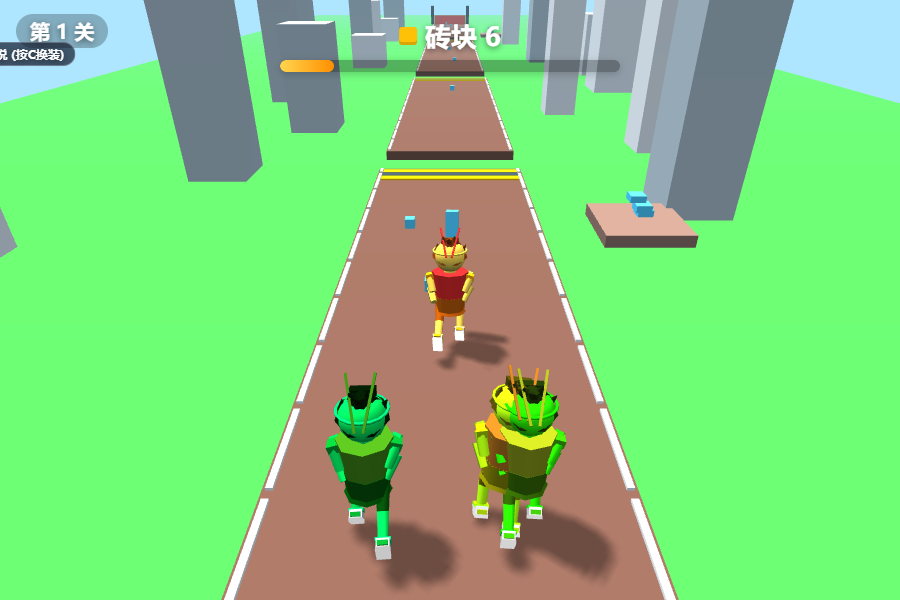
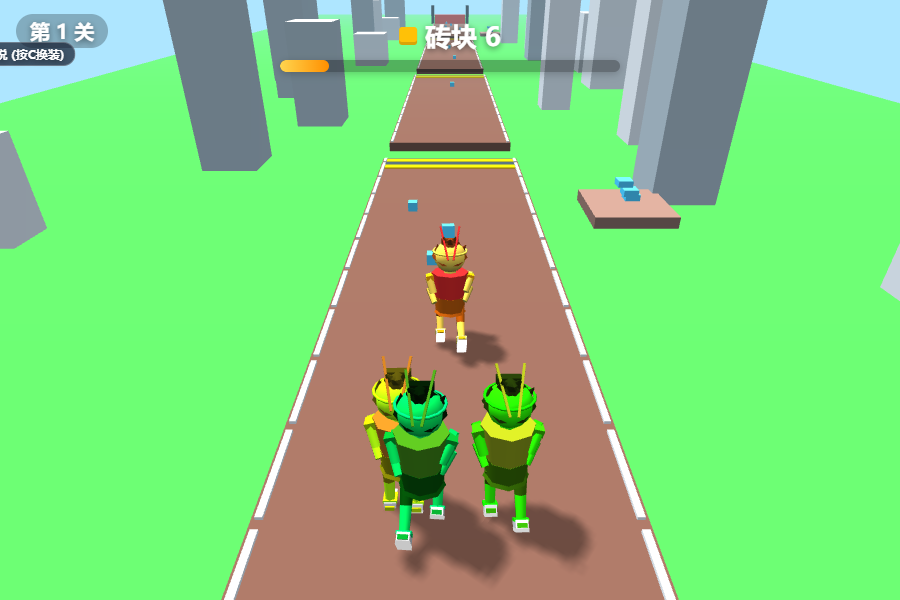
P1机制批(双端): M6板子几秒后原地刷新(5s复活,鞋一次性,takePickup改隐藏不销毁) + M8板尽差一步扒住断崖边缘爬上去(0.55s攀爬态+双臂上伸姿势,替代直接坠落) + M13板堆视觉堆到天高(12→18层距收紧); 修潜在bug: M7孤岛拾取后节点幸存逻辑统一; verify-web扩到20/20(新增pickup-respawn/edge-grab断言); tsc0/smoke/sim38全绿

diff --git a/web-preview/index.html b/web-preview/index.html
@@ -907,6 +907,23 @@ function animateChar(char, runCycle, steerVelocity, carriedPlanks, state, delta,
     char.leftLeg.knee.rotation.x = 0.1; char.rightLeg.knee.rotation.x = 0.1;
     return;
   }
+  if (state === 'climb') {
+    // M8 挂边攀爬：双臂上伸扒住边缘，双腿屈膝蹬踏，躯干随攀爬频率起伏
+    char.torso.rotation.x = lerp(char.torso.rotation.x, -0.32, delta * 8);
+    char.torso.rotation.z = lerp(char.torso.rotation.z, 0, delta * 8);
+    char.torso.position.y = lerp(char.torso.position.y, 0.72 + Math.sin(runCycle * 6) * 0.08, delta * 10);
+    char.leftArm.shoulder.rotation.x = lerp(char.leftArm.shoulder.rotation.x, -2.9, delta * 9);
+    char.leftArm.shoulder.rotation.z = lerp(char.leftArm.shoulder.rotation.z, -0.5, delta * 9);
+    char.leftArm.elbow.rotation.x = lerp(char.leftArm.elbow.rotation.x, -0.25, delta * 9);
+    char.rightArm.shoulder.rotation.x = lerp(char.rightArm.shoulder.rotation.x, -2.9, delta * 9);
+    char.rightArm.shoulder.rotation.z = lerp(char.rightArm.shoulder.rotation.z, 0.5, delta * 9);
+    char.rightArm.elbow.rotation.x = lerp(char.rightArm.elbow.rotation.x, -0.25, delta * 9);
+    char.leftLeg.hip.rotation.x = lerp(char.leftLeg.hip.rotation.x, -0.9, delta * 8);
+    char.leftLeg.knee.rotation.x = lerp(char.leftLeg.knee.rotation.x, 1.2, delta * 8);
+    char.rightLeg.hip.rotation.x = lerp(char.rightLeg.hip.rotation.x, 0.7, delta * 8);
+    char.rightLeg.knee.rotation.x = lerp(char.rightLeg.knee.rotation.x, 0.9, delta * 8);
+    return;
+  }
   const stride = Math.sin(runCycle);
   // 负重反作用平衡（v2 增强）：搬得越多躯干抗压后仰、手臂内收、砖垛甩尾更重
   const loadFactor = Math.min(carriedPlanks / 25, 1.0);
@@ -998,9 +1015,10 @@ let playerX = 0, targetX = 0, playerY = 0, fallVel = 0;
 let pickups = [], gateWalls = [], stackMeshes = [], anims = [];
 let curSeed = 1, shoeT = 0, itemMeshes = []; // v4：本局种子 / 加速鞋剩余时间 / 道具专属网格（plane 等，需显式清理）
 let camInited = false;
-for (let i = 0; i < 12; i++) {
+// M13（原版“板子堆到天高”）：视觉堆叠上限 12→18，层距收紧 0.92→0.74 保持比例不穿模
+for (let i = 0; i < 18; i++) {
   const s = cfg.brickUnit * 0.85;
-  const m = box(MAT.brick, s, s, s, 0, 0.08 + i * s * 0.92, 0.04, char.plankMount); // 头顶砖垛（挂 torso 下，随身体动）
+  const m = box(MAT.brick, s, s, s, 0, 0.08 + i * s * 0.74, 0.04, char.plankMount); // 头顶砖垛（挂 torso 下，随身体动）
   m.visible = false;
   stackMeshes.push(m);
 }
@@ -1080,6 +1098,7 @@ function buildLevel(cur) {
   heldLeft = false; heldRight = false; dragging = false;
   fell = false; bridgeT = 0;
   offRoad = false; plankAcc = 0; leapGrace = 0;
+  climbT = 0; // M8 攀爬状态整局复位
   plankTrail.length = 0; // 清空持久地面（新关卡）
   bonusActive = false; bonusState = null; bonusPads = []; // 重置倍率奖励区
   for (const m of smokes) { m.alive = false; m.visible = false; } // 清烟雾
@@ -1348,11 +1367,20 @@ function updateParticles(dt) {
 }
 function checkPickups(x, prevZ, z) {
   for (const p of pickups) {
-    if (p.taken) continue;
+    if (p.taken) {
+      // M6（原版规则）：砖堆几秒后原地刷新（加速鞋一次性不刷）
+      if (p.respawnAt != null && elapsed >= p.respawnAt) {
+        p.taken = false; p.respawnAt = null; p.mesh.visible = true;
+        floatText('板子刷新！', '#bcaaa4');
+      }
+      continue;
+    }
     const hitZ = z >= p.def.z - 0.7 && prevZ <= p.def.z + 0.7;
       if (hitZ && Math.abs(x - p.def.x) < 0.95) {
         p.taken = true;
         p.mesh.visible = false;
+        // M6：砖堆 5 秒后原地复活（鞋类一次性）
+        p.respawnAt = p.def.kind === 'shoe' ? null : elapsed + (cfg.pickupRespawnSec ?? 5);
         if (p.def.kind === 'shoe') {
           // v4 加速鞋：不产砖，speed ×1.35 持续 3.5s（母本 botRun 同口径）
           shoeT = 3.5;
@@ -1433,6 +1461,9 @@ function updateShortcut(x, z, adv, dt) {
   // 最后一跃优先于支撑清零（否则 leapGrace 被立即清掉永坠不了）
   if (leapGrace > 0) {
     if (supported) { leapGrace = 0; offRoad = false; return; } // 落到主路/自己的板子上=生还
+    // M8（原版规则）：板尽最后一跃差一步——逼近主路边缘时扒住爬上去，不判坠落
+    const grab = nearEdgeGrab(x, z);
+    if (grab) { enterClimb(grab); return; }
     leapGrace -= adv;
     if (leapGrace <= 0) { enterFall(); return; }
     return;
@@ -1471,6 +1502,31 @@ function updateShortcut(x, z, adv, dt) {
     plankAcc = 0;
     layPlank(z, x);
   }
+}
+
+// ===== M8 板尽差一步：扒住断崖边缘爬上去（原版规则，替代直接坠落） =====
+// 最后一跃中若已逼近前方主路的路口（±0.65m 内且横向在路幅+0.7m 内），挂边 0.55s 后爬上去生还
+let climbT = 0, climbToX = 0, climbToZ = 0;
+function nearEdgeGrab(x, z) {
+  for (const g of level.gaps) {
+    if (z >= g.zEnd - 0.65 && z <= g.zEnd + 0.2) {
+      const c = bendX(z);
+      if (Math.abs(x - c) <= cfg.trackHalfWidth + 0.7) {
+        const lx = Math.max(-cfg.trackHalfWidth * 0.6, Math.min(cfg.trackHalfWidth * 0.6, x - c));
+        return { x: lx, z: g.zEnd + 0.35 };
+      }
+    }
+  }
+  return null;
+}
+function enterClimb(g) {
+  state = 'climb';
+  climbT = 0.55; climbToX = g.x; climbToZ = g.z;
+  leapGrace = 0; offRoad = false;
+  sfx.bridge();
+  floatText('扒住边缘！', '#ffd54f');
+  showHint('扒住边缘，爬了上去！');
+  console.log('[ShortcutRun] M8：板尽差一步，扒住边缘爬上去生还');
 }
 
 // 在 (x,z) 留一块板（玩家与 AI 对手共用）
@@ -1850,7 +1906,7 @@ function loop() {
   elapsed += dt;
   stepAnims(dt);
 
-  if (state === 'run' || state === 'fall' || state === 'win' || state === 'lose') {
+  if (state === 'run' || state === 'climb' || state === 'fall' || state === 'win' || state === 'lose') {
     if (heldLeft) targetX += cfg.keySteerSpeed * dt;   // 屏幕左 = 世界 +X（手性修正）
     if (heldRight) targetX -= cfg.keySteerSpeed * dt;
     clampTarget();
@@ -1872,6 +1928,14 @@ function loop() {
       x += (targetX - x) * k;
       playerY = 0;
       updateShortcut(x, z, adv, dt); // 自由铺板核心：离开主路即脚下耗板铺路
+    } else if (state === 'climb') {
+      // M8：挂边攀爬（0.55s）——横纵两轴插值爬上路口，躯干起伏由动画驱动
+      climbT -= dt;
+      const kk = Math.min(1, dt * 8);
+      x += (climbToX - x) * kk;
+      z += (climbToZ - z) * kk;
+      playerY = 0.22 * Math.sin(Math.min(1, 1 - climbT / 0.55) * Math.PI);
+      if (climbT <= 0) { state = 'run'; playerY = 0; }
     } else if (state === 'fall') {
       fallVel += 22 * dt;
       playerY -= fallVel * dt;
@@ -1884,6 +1948,7 @@ function loop() {
     if (state === 'run') runCycle += dt * (8 + speed * 0.7); // 步频随速度
     const charState = state === 'ready' ? 'idle'
       : state === 'run' ? (bridgeT > 0 ? 'bridging' : 'running')
+      : state === 'climb' ? 'climb'
       : state === 'fall' ? 'drowned'
       : state === 'win' ? 'finished'
       : (fell ? 'drowned' : 'idle'); // lose：掉下去的旋水，够砖差一步的站着
@@ -1985,6 +2050,8 @@ window.__game = {
   layPlankAt: (x, z) => layPlank(z, x),
   supportAt: (x, z) => onPlankTrail(x, z),
   plankTrailCount: () => plankTrail.length,
+  // M8 验证钩子：给定坐标是否触发“扒住边缘”（近断崖尽头=目标点，否则 null）
+  grabCheck: (x, z) => nearEdgeGrab(x, z),
   setTheme: (k) => { if (THEMES[k]) { themeKey = k; applyTheme(); } },
   setPlayerColor: (hex) => { MAT.player.color.setHex(hex); CHAR_MATS.clothTop.color.setHex(hex); }, // QA 用：像素检测 marker 色（新角色用 clothTop）
   // QA 用：固定跑步相位后立刻摆一帧，消除像素检测的相位抖动（实测 marker 36~78 大幅波动）

diff --git a/assets/scripts/GameApp.ts b/assets/scripts/GameApp.ts
@@ -26,7 +26,7 @@ import { GameUI } from './GameUI';
 import { tweenPos, clamp } from './util';
 import { adSys, shouldInterstitialAfterWin, AdTelemetry } from './AdMgr';
 
-type State = 'ready' | 'run' | 'fall' | 'win' | 'lose';
+type State = 'ready' | 'run' | 'fall' | 'win' | 'lose' | 'climb';
 
 @ccclass('GameApp')
 export class GameApp extends Component {
@@ -87,6 +87,10 @@ export class GameApp extends Component {
   private bonusEntryZ = 0;
   private bonusPileDone: boolean[] = []; // 气垛下沉动画是否已播（防重复 tween 已销毁节点）
   private heldBack = false; // S/↓ 按住=奖励区回头
+  // M8：板尽差一步扒住边缘爬上去
+  private climbT = 0;
+  private climbToX = 0;
+  private climbToZ = 0;
 
   onLoad(): void {
     if (!this.boxPrefab) {
@@ -173,6 +177,7 @@ export class GameApp extends Component {
     this.heldLeft = false;
     this.heldRight = false;
     this.heldBack = false;
+    this.climbT = 0; // M8 攀爬状态整局复位
     this.bonusActive = false; // 奖励区状态整局重置（网格已随 track.build 重建回收）
     this.bonus = null;
     this.bonusPads = [];
@@ -360,13 +365,21 @@ export class GameApp extends Component {
       this.fallVel += 22 * dt;
       y -= this.fallVel * dt;
       if (y < -8) { this.lose('掉落！'); return; }
+    } else if (this.state === 'climb') {
+      // M8：挂边攀爬（0.55s）——横纵两轴插值爬上路口，躯干起伏由动画驱动
+      this.climbT -= dt;
+      const kk = Math.min(1, dt * 8);
+      x += (this.climbToX - x) * kk;
+      z += (this.climbToZ - z) * kk;
+      y = 0.22 * Math.sin(Math.min(1, 1 - this.climbT / 0.55) * Math.PI);
+      if (this.climbT <= 0) { this.state = 'run'; y = 0; }
     }
     this.laneX = x;
 
     this.player.setPosition(new Vec3(
       bendX(z, this.curve) + x * Math.cos(headingAt(z, this.curve)), y, z)); // rig 根节点在脚底，随弯道
     this.player.eulerAngles = new Vec3(0, headingAt(z, this.curve), 0); // 朝向=切线
-    // 角色姿势由 CharacterRig 接管（含转向侧倾/落水），这里不再手动旋转根节点
+    // 角色姿势由 CharacterRig 接管（含转向侧倾/落水/扒边攀爬），这里不再手动旋转根节点
     if (this.state === 'run') this.runCycle += dt * (8 + this.speed * 0.7);
     if (this.bridgeT > 0) this.bridgeT -= dt;
 
@@ -379,6 +392,7 @@ export class GameApp extends Component {
     this.track.syncStack(this.bricks);
     const charState = this.state === 'fall' ? 'drowned'
       : this.state === 'run' ? (this.bridgeT > 0 ? 'bridging' : 'running')
+      : this.state === 'climb' ? 'climb'
       : (this.fell ? 'drowned' : 'stand');
     this.pickupPulse = Math.max(0, this.pickupPulse - dt * 2.2);
     this.track.syncRig(charState, this.runCycle, this.targetX - x, this.bricks, dt, this.pickupPulse);
@@ -393,10 +407,19 @@ export class GameApp extends Component {
   // 拾取判定：本帧位移区间 [prevZ, z] 与拾取点区间相交即吃到（防高帧移动量穿透）
   private checkPickups(x: number, prevZ: number, z: number): void {
     for (const p of this.pickups) {
-      if (p.taken) continue;
+      if (p.taken) {
+        // M6（原版规则）：砖堆几秒后原地刷新（加速鞋一次性不刷）
+        if (p.respawnAt != null && this.elapsed >= p.respawnAt) {
+          p.taken = false; p.respawnAt = null; p.node.active = true;
+          console.log('[ShortcutRun] 板子刷新');
+        }
+        continue;
+      }
       const hitZ = z >= p.def.z - 0.7 && prevZ <= p.def.z + 0.7;
       if (hitZ && Math.abs(x - p.def.x) < 0.95) {
         this.track.takePickup(p);
+        // M6：砖堆 5 秒后原地复活（鞋类一次性）
+        p.respawnAt = p.def.kind === 'shoe' ? null : this.elapsed + (this.cfg.pickupRespawnSec ?? 5);
         if (p.def.kind === 'shoe') {
           // v4 加速鞋：不产砖，speed ×1.35 持续 3.5s（母本 botRun 同口径）
           this.shoeT = 3.5;
@@ -439,6 +462,9 @@ export class GameApp extends Component {
     // 最后一跃优先于支撑清零（否则 leapGrace 被立即清掉永坠不了）
     if (this.leapGrace > 0) {
       if (supported) { this.leapGrace = 0; this.offRoad = false; return; } // 落到主路/自己的板子上=生还
+      // M8（原版规则）：最后一跃差一步——逼近主路路口时扒住边缘爬上去，不判坠落
+      const grab = this.nearEdgeGrab(x, z);
+      if (grab) { this.enterClimb(grab); return; }
       this.leapGrace -= adv;
       if (this.leapGrace <= 0) { this.enterFall(); return; }
       return;
@@ -472,6 +498,33 @@ export class GameApp extends Component {
       this.plankAcc = 0;
       this.track.spawnPlank(z, x);
     }
+  }
+
+  // ===== M8 板尽差一步：扒住断崖边缘爬上去（原版规则，替代直接坠落） =====
+  // 最后一跃中若已逼近前方主路的路口（±0.65m 内且横向在路幅+0.7m 内），挂边 0.55s 后爬上去生还
+  private nearEdgeGrab(x: number, z: number): { x: number; z: number } | null {
+    for (const g of this.levelDef.gaps) {
+      if (z >= g.zEnd - 0.65 && z <= g.zEnd + 0.2) {
+        const c = bendX(z, this.curve);
+        if (Math.abs(x - c) <= this.cfg.trackHalfWidth + 0.7) {
+          const lx = Math.max(-this.cfg.trackHalfWidth * 0.6, Math.min(this.cfg.trackHalfWidth * 0.6, x - c));
+          return { x: lx, z: g.zEnd + 0.35 };
+        }
+      }
+    }
+    return null;
+  }
+
+  private enterClimb(g: { x: number; z: number }): void {
+    this.state = 'climb';
+    this.climbT = 0.55;
+    this.climbToX = g.x;
+    this.climbToZ = g.z;
+    this.leapGrace = 0;
+    this.offRoad = false;
+    this.ui?.showHint('扒住边缘，爬了上去！');
+    this.audio?.play('bridge');
+    console.log('[ShortcutRun] M8：板尽差一步，扒住边缘爬上去生还');
   }
 
   private enterFall(): void {

diff --git a/assets/scripts/TrackBuilder.ts b/assets/scripts/TrackBuilder.ts
@@ -25,6 +25,7 @@ export interface RuntimePickup {
   node: Node;
   def: PickupDef;
   taken: boolean;
+  respawnAt: number | null; // M6：砖堆刷新时刻（秒，shoe 为 null 一次性）
 }
 
 @ccclass('TrackBuilder')
@@ -319,11 +320,11 @@ export class TrackBuilder extends Component {
         g.setRotationFromEuler(new Vec3(0, 34, 0));
         this.box('shoe', new Vec3(0.5, 0.14, 0.26), new Vec3(0, 0.07, 0), g);
         this.box('shoe', new Vec3(0.3, 0.2, 0.24), new Vec3(-0.08, 0.24, 0), g);
-        return { node: g, def, taken: false };
+        return { node: g, def, taken: false, respawnAt: null };
       }
       const s = this.cfg.brickUnit;
       const node = this.lbox('brick', new Vec3(s, s, s), new Vec3(def.x, s / 2 + 0.05, def.z));
-      return { node, def, taken: false };
+      return { node, def, taken: false, respawnAt: null };
     });
   }
 
@@ -343,9 +344,10 @@ export class TrackBuilder extends Component {
     this.lbox(kind, new Vec3(halfW * 2 + 0.4, 0.7, 0.35), new Vec3(0, 2.55, g.z));
   }
 
+  // M6（原版规则）：不吃掉只隐藏——砖堆几秒后原地刷新；加速鞋仍由调用方决定一次性
   takePickup(p: RuntimePickup): void {
     p.taken = true;
-    tweenScale(p.node, 0.12, new Vec3(0.01, 0.01, 0.01), () => p.node.destroy());
+    p.node.active = false;
   }
 
   private buildGate(): void {
@@ -387,10 +389,10 @@ export class TrackBuilder extends Component {
     }
     this.rig = buildCharacter(player);
 
-    // 胸前手抱砖垛：携带量可视化（挂 plankMount，最多 12 块）
-    for (let i = 0; i < 12; i++) {
+    // 胸前手抱砖垛：携带量可视化（挂 plankMount）。M13（原版“堆到天高”）12→18，层距 0.92→0.74
+    for (let i = 0; i < 18; i++) {
       const s = cfg.brickUnit * 0.85;
-      const brick = this.box('brick', new Vec3(s, s, s), new Vec3(0, 0.08 + i * s * 0.92, 0.04), this.rig.plankMount);
+      const brick = this.box('brick', new Vec3(s, s, s), new Vec3(0, 0.08 + i * s * 0.74, 0.04), this.rig.plankMount);
       brick.active = false;
       this.stackNodes.push(brick);
     }

diff --git a/assets/scripts/CharacterRig.ts b/assets/scripts/CharacterRig.ts
@@ -8,7 +8,7 @@ import { _decorator, Node, Vec3, Mesh, MeshRenderer, Material, utils, primitives
 import { currentTheme, colorOf } from './Theme';
 import { spawnBox } from './BoxFactory';
 
-export type CharState = 'idle' | 'running' | 'bridging' | 'drowned' | 'finished';
+export type CharState = 'idle' | 'running' | 'bridging' | 'drowned' | 'finished' | 'climb';
 
 export interface CharRig {
   root: Node;
@@ -430,6 +430,18 @@ export function animateCharacter(r: CharRig, runCycle: number, steerVel: number,
     r.rightArm.shoulder.eulerAngles = new Vec3(lerp(r.rightArm.shoulder.eulerAngles.x, -2.8, dt * 6), 0, lerp(r.rightArm.shoulder.eulerAngles.z, 0.4, dt * 6));
     rot(r.leftLeg.hip, 0); rot(r.rightLeg.hip, 0);
     rot(r.leftLeg.knee, 0.1); rot(r.rightLeg.knee, 0.1);
+    return;
+  }
+  if (state === 'climb') {
+    // M8 挂边攀爬：双臂上伸扒住边缘，双腿屈膝蹬踏，躯干随攀爬频率起伏
+    r.torso.eulerAngles = new Vec3(lerp(r.torso.eulerAngles.x, -0.32, dt * 8), 0, lerp(r.torso.eulerAngles.z, 0, dt * 8));
+    r.torso.setPosition(new Vec3(r.torso.position.x, lerp(r.torso.position.y, 0.72 + Math.sin(runCycle * 6) * 0.08, dt * 10), r.torso.position.z));
+    r.leftArm.shoulder.eulerAngles = new Vec3(lerp(r.leftArm.shoulder.eulerAngles.x, -2.9, dt * 9), 0, lerp(r.leftArm.shoulder.eulerAngles.z, -0.5, dt * 9));
+    r.leftArm.elbow.eulerAngles = new Vec3(lerp(r.leftArm.elbow.eulerAngles.x, -0.25, dt * 9), 0, 0);
+    r.rightArm.shoulder.eulerAngles = new Vec3(lerp(r.rightArm.shoulder.eulerAngles.x, -2.9, dt * 9), 0, lerp(r.rightArm.shoulder.eulerAngles.z, 0.5, dt * 9));
+    r.rightArm.elbow.eulerAngles = new Vec3(lerp(r.rightArm.elbow.eulerAngles.x, -0.25, dt * 9), 0, 0);
+    rot(r.leftLeg.hip, -0.9); rot(r.leftLeg.knee, 1.2);
+    rot(r.rightLeg.hip, 0.7); rot(r.rightLeg.knee, 0.9);
     return;
   }
   const stride = Math.sin(runCycle);

diff --git a/assets/scripts/config.ts b/assets/scripts/config.ts
@@ -36,6 +36,7 @@ export interface Cfg {
   plankStride?: number;       // 每多少米留一块板(视觉)
   offRoadBoost?: number;      // 铺捷径加速倍率(赌板子换速度)
   plankPoolMax?: number;      // 板子视觉池上限
+  pickupRespawnSec?: number;  // M6: 砖堆被吃几秒后原地刷新(秒,0/缺省=不刷新)
 
   // ---- v4 道具(加砖门/倍数门/加速鞋,母本 bridge-rules v4) ----
   enableItems?: boolean;   // true 时由 GameApp 走 LevelCurve.itemsFor 分带;缺省关闭=输出与 v3 逐字节一致
